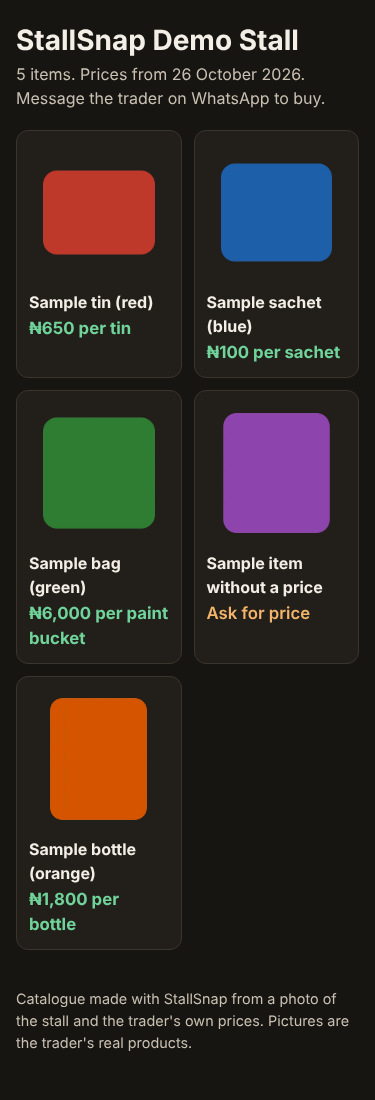
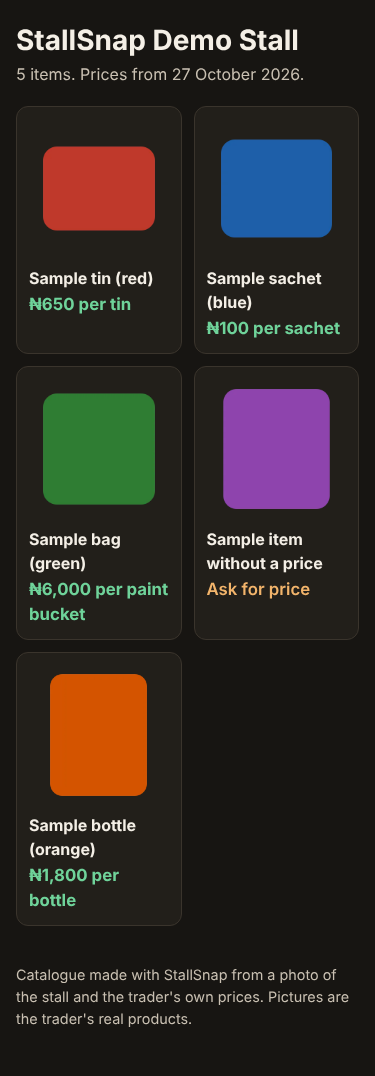
Grok review on PR 9: no contact promise the page can't keep; wire the per-job call budget; refreshed page check
Claude-Session: https://claude.ai/code/session_01KNVgTS68vfWmZwEuVae7WF

diff --git a/src/server.ts b/src/server.ts
@@ -10,7 +10,7 @@ import { missingEnv, readEnv } from "./env.ts";
 import { JobLog } from "./joblog.ts";
 import { MetaClient } from "./meta/client.ts";
 import { realModels } from "./pipeline/models.ts";
-import { DEFAULT_LEDGER_PATH, SpendGuard } from "./spend-guard.ts";
+import { DEFAULT_LEDGER_PATH, MAX_CALLS_PER_JOB, SpendGuard } from "./spend-guard.ts";
 import { loadWebhookConfig } from "./whatsapp/config.ts";
 import { Conversation } from "./whatsapp/conversation.ts";
 import { GraphClient } from "./whatsapp/graph.ts";
@@ -36,6 +36,7 @@ if (missing.length === 0) {
     models: realModels(new MetaClient({ apiKey: readEnv("MODEL_API_KEY")!, guard })),
     publish: (s) => publishCatalogue(s, DATA_DIR, baseUrl!),
     dataDir: DATA_DIR,
+    callsLeft: (jobId) => MAX_CALLS_PER_JOB - guard.callsForJob(jobId),
   });
   handle = (msg) => conversation.handle(msg);
 } else {

diff --git a/test/messy/catalogue.messy.test.ts b/test/messy/catalogue.messy.test.ts
@@ -96,3 +96,10 @@ test("the real server answers a damaged catalogue with a plain 500, not Bun's de
     rmSync(dir, { recursive: true, force: true });
   }
 }, 15_000);
+
+// Grok review on PR #9: the page promises no contact route it doesn't give (Shola is still deciding on one).
+test("the page doesn't tell customers to message the trader without a way to do it", () => {
+  const html = renderCatalogue({ title: CATALOGUE_TITLE, updatedAt: "2026-10-27T09:00:00Z", items: [{ name: "Rice", naira: 1500, unit: "bag", image: "item-1.webp", width: 10, height: 10 }] }, "/c/x");
+  expect(html).not.toMatch(/message the trader/i);
+  expect(html).toContain("Prices from 27 October 2026.");
+});

diff --git a/src/catalogue/page.ts b/src/catalogue/page.ts
@@ -65,7 +65,7 @@ export function renderCatalogue(c: Catalogue, base: string): string {
 <body>
   <header>
     <h1>${escape(c.title)}</h1>
-    <p class="meta">${c.items.length} ${c.items.length === 1 ? "item" : "items"}${date ? `. Prices from ${date}` : ""}. Message the trader on WhatsApp to buy.</p>
+    <p class="meta">${c.items.length} ${c.items.length === 1 ? "item" : "items"}${date ? `. Prices from ${date}` : ""}.</p>
   </header>
   <main>
     <ul>

diff --git a/docs/build-log.md b/docs/build-log.md
@@ -36,3 +36,4 @@ Dated record of what was built in this repo. All times are UK time. Everything h
 | Tue 27 Oct | PR 4c, Grok review: a range is never read as one price. "5-8 thousand" (was 5,800) and "two to three thousand" (was 3,000) are now asked back, as are "5 to 8k", "1,000-1,200" and "2000 or 2500": both ends of a range are unreadable. |
 | Tue 27 Oct | PR 5a, Grok review: Graph calls time out after 30 s and media downloads after 60 s, and the access token is only sent to Meta's media hosts (a look-alike host, another port or plain http is refused before any request). |
 | Tue 27 Oct | PR 5b, Grok review: the list's change example now names the first item ("rice na 1500"), which the price check accepts (the old "2 na 150" was refused); a text or voice note after the list with no number in it gets a hint and no paid pricing; each paid step only starts if the job can afford its worst case, so the 60-call cap is never hit mid-step; a SpendGuard refusal tells the trader the real reason (daily limit, job limit or paused); test phone numbers are obviously fake. |
+| Tue 27 Oct | PR 5c, Grok review: the page no longer says "Message the trader on WhatsApp to buy", which gave no way to do it (Shola is still deciding on a contact button); the server passes the per-job call budget to the conversation. Page check re-run: 0 axe violations and no sideways scroll at 320, 375, 768 and 1280 px, light and dark. |
